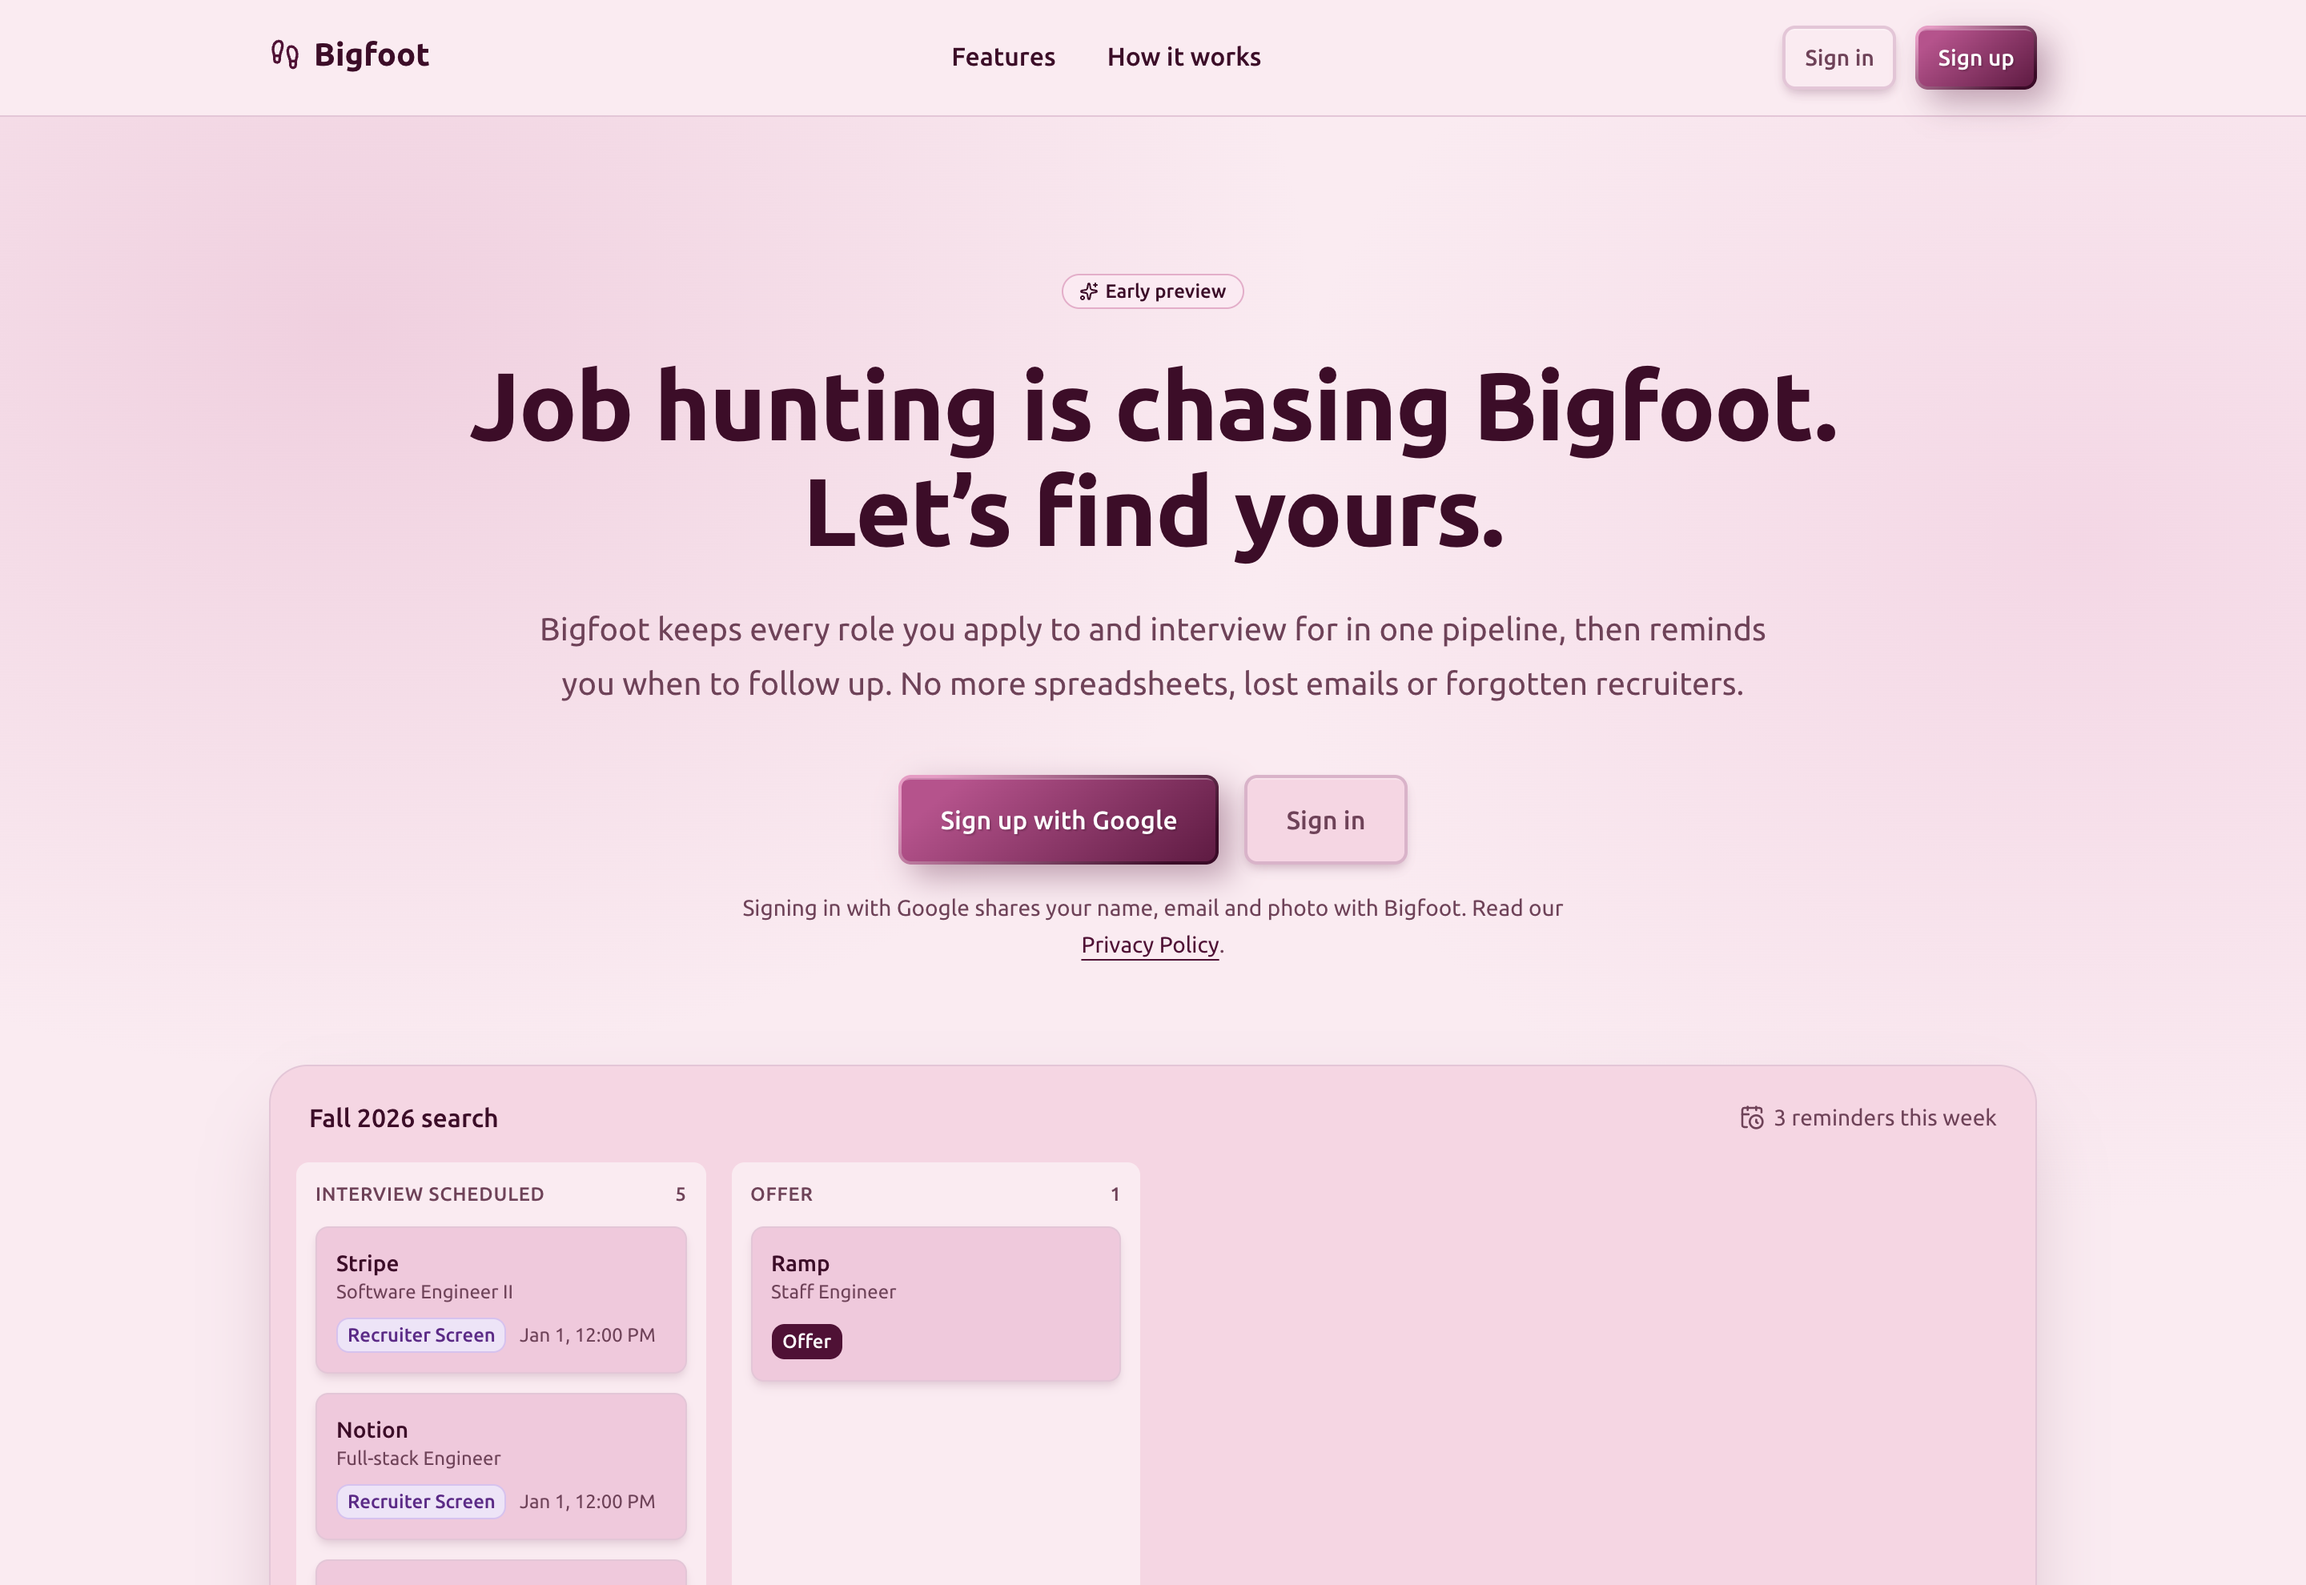
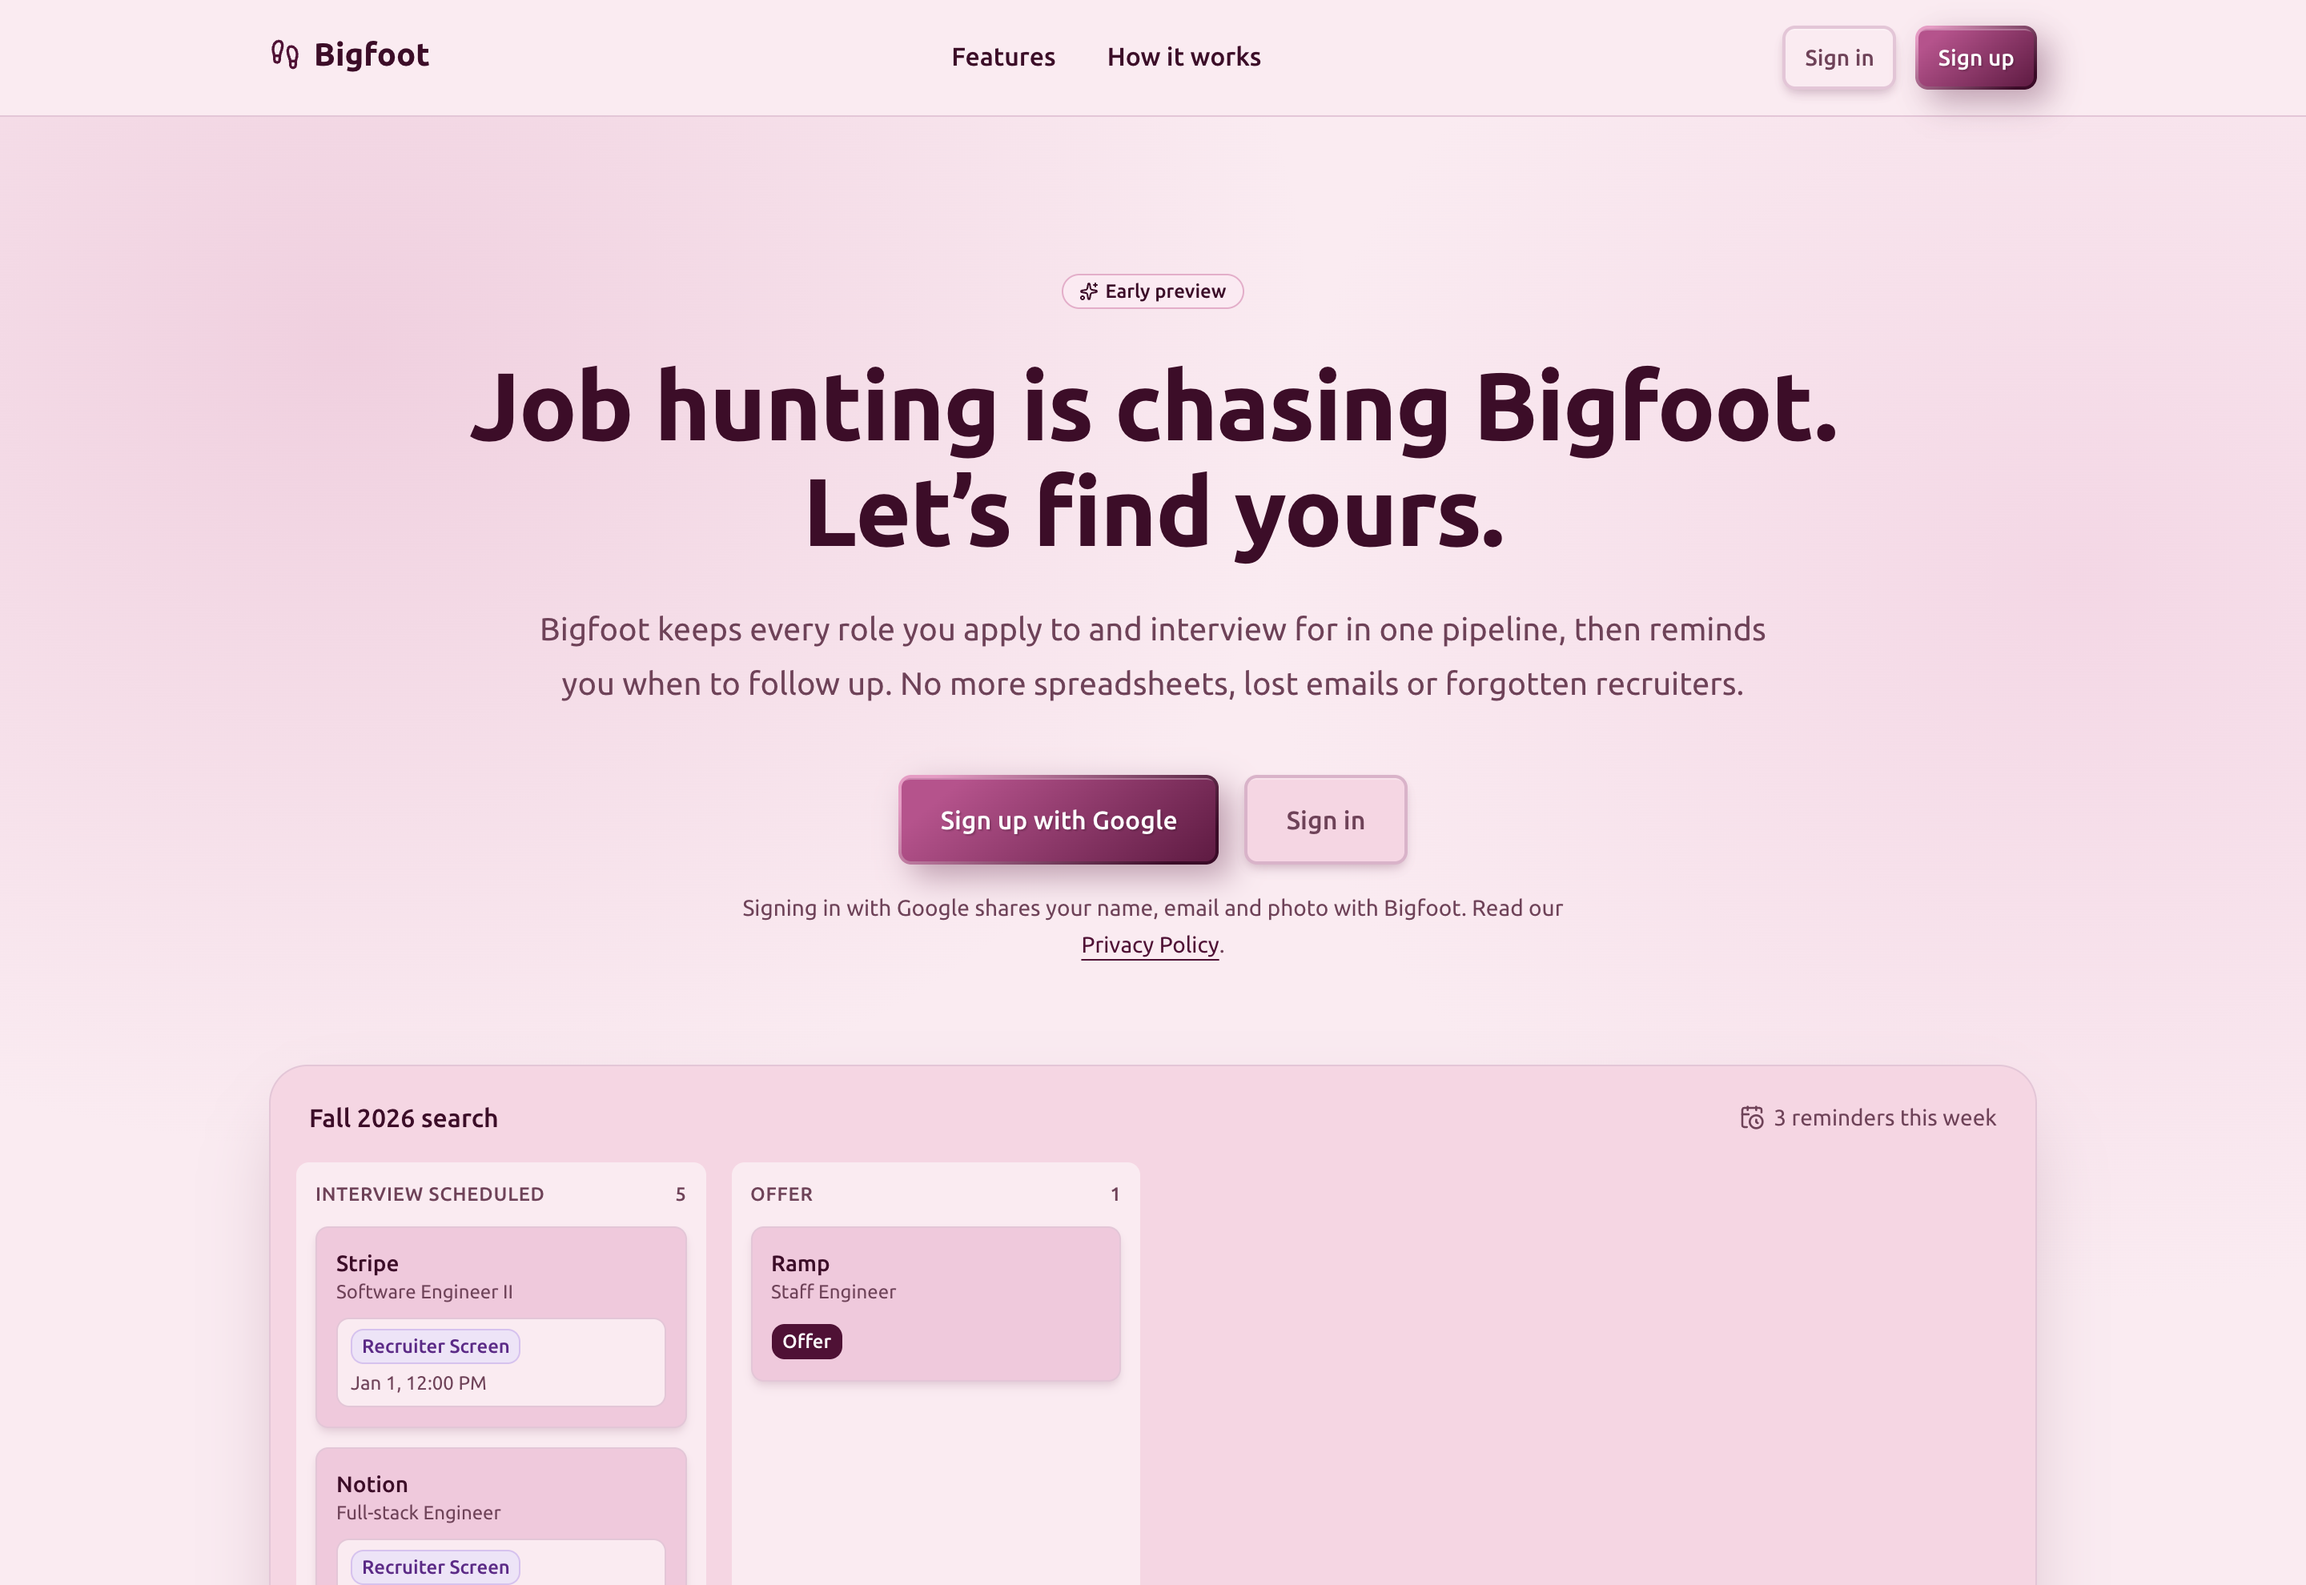
Box each upcoming Interview on a Pipeline card (BIG-49)
In narrow columns a long kind such as Cross-Functional Interview pushes
the date onto its own line, and the dates no longer read as belonging
to their labels. Each Interview now sits in its own box, so the kind and
date stay together at any width.

Changed region(s): [[0.125, 0.8318, 0.3125, 1.0]]

diff --git a/src/components/pipeline-board.tsx b/src/components/pipeline-board.tsx
@@ -116,10 +116,14 @@ function Card({ job, onOpen }: { job: Application; onOpen?: (app: Application) =
       {job.outcome ? (
         <Badge tone={OUTCOME_OPTIONS[job.outcome].tone}>{OUTCOME_OPTIONS[job.outcome].label}</Badge>
       ) : upcoming.length > 0 ? (
-        // Every upcoming Interview, soonest first: one row each, its kind beside its date.
-        <ul aria-label="Upcoming Interviews" className="m-0 flex list-none flex-col gap-1.5 p-0">
+        // Every upcoming Interview, soonest first, each in its own box so its kind and date stay
+        // together: side by side when they fit, the date below when the card is narrow.
+        <ul aria-label="Upcoming Interviews" className="m-0 flex list-none flex-col gap-2 p-0">
           {upcoming.map((interview) => (
-            <li key={interview.id} className="flex flex-wrap items-center gap-x-2 gap-y-1 text-xs text-body">
+            <li
+              key={interview.id}
+              className="flex flex-wrap items-center gap-x-2 gap-y-1 rounded-control border border-line bg-surface px-2 py-1.5 text-xs text-body"
+            >
               <Badge tone={INTERVIEW_OPTIONS[interview.kind].tone}>{INTERVIEW_OPTIONS[interview.kind].label}</Badge>
               <InterviewWhen at={interview.at} />
             </li>
